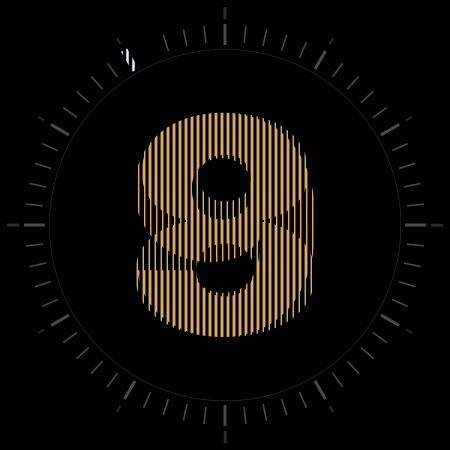
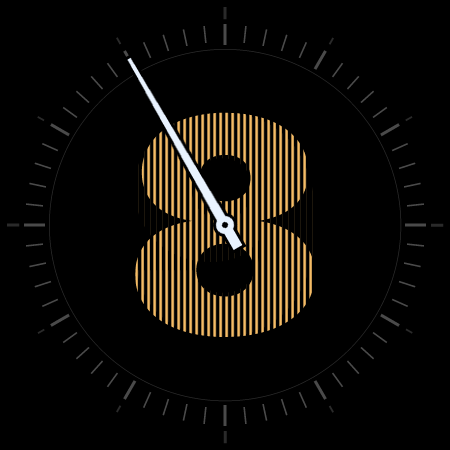
Scanimation: analog minute hand; centre the hour change before the hour
The minute markings give way to a smooth white minute hand with a black
backing. The ten-minute hour change is now half and half at :59:30 (running
:54:30 to :04:30) instead of finishing at :00, so the outgoing numeral is
still visible at :59.

Claude-Session: https://claude.ai/code/session_01U7vwC29cqQDcqoDDqQvHXs

Changed region(s): [[0.28, 0.0933, 0.7156, 0.7467]]

diff --git a/faces/scanimation/generate_xml.py b/faces/scanimation/generate_xml.py
@@ -18,18 +18,17 @@ Hours: two frames per window
     columns in window k-1 and window k.
 
     The hour sheet is vertical rules, 2.5 px wide, every 6 px. It rests over
-    the current numeral's columns for the whole hour. During the hour's last
-    minute it slides 3 px right: the classic Scanimation change, the numeral
-    interleaving into the next. At the top of the hour the face switches to
-    the next window, whose numeral sits in the very columns the sheet now
-    covers, so the switch is invisible. Offset = 3 * (hour + transition) mod 6.
+    the current numeral's columns, then over ten minutes slides 3 px right:
+    the classic Scanimation change, the numeral interleaving into the next.
+    The change is centred half a minute before the hour (half and half at
+    :59:30), so it runs :54:30 to :04:30. When it completes, the face switches
+    to the next window, whose numeral sits in the very columns the sheet now
+    covers, so the switch is invisible. The window clock is therefore the
+    time shifted back 4.5 minutes; offset = 3 * (window + change) mod 6.
 
-Minutes: faked
-    A barrier grid can't resolve single minutes on the ring, so a
-    marking-sized window steps to the current minute, one of sixty printed
-    faintly on the plate. Through it you see the minute ink, fine vertical
-    rules sliding slowly and continuously (144 px per 12 hours), so the lit
-    marking stays striped and drifts.
+Minutes: an analog hand
+    A real minute hand, white with a black backing so it reads over the
+    striped numeral, sweeping smoothly over sixty faint printed markings.
 """
 from pathlib import Path
 import math
@@ -49,17 +48,17 @@ HOUR_PERIOD = 6             # px: two 3 px columns, one per numeral
 HOUR_COLUMN = HOUR_PERIOD / 2
 HOUR_RULE = 2.5             # px: a little narrower than a column, so antialiasing
                             # at the edges doesn't ghost the hidden numeral
-CHANGE_SECONDS = 600        # the hour sheet slides through the hour's last ten minutes
+CHANGE_SECONDS = 600        # the hour change lasts ten minutes...
+HALFWAY_BEFORE_HOUR = 30    # ...and is half done this many seconds before the hour
+WINDOW_LAG = CHANGE_SECONDS // 2 - HALFWAY_BEFORE_HOUR   # 270 s: window k runs to k+1:04:30
 
-MINUTE_PERIOD = 6           # px: same two-column barrier as the hours
-MINUTE_COLUMN = MINUTE_PERIOD / 2
-MINUTE_RULE = 2.5           # px
-MINUTE_CHANGE_SECONDS = 30  # the minute sheet slides through each minute's last 30 s
+HAND = (-26, 192, 10.0, 3.5)   # minute hand: tail r, tip r, base width, tip width
+HAND_BACKING = 3.0             # px of black around the hand
+CAP = (9.0, 3.0)               # centre cap radius, hole radius
 
 RING_IN, RING_OUT = 180, 201                 # minute ring (safe inset 24 -> r <= 201)
 TICK = (RING_IN + 3, RING_OUT - 1, 1.6)      # printed minute marking: r0, r1, width
 TICK_FIVE = (RING_IN, RING_OUT, 3.0)         # printed five-minute marking
-LIT_TICK = (RING_IN - 1, RING_OUT + 1, 7.0)  # lit window, covers either marking
 
 NUMERAL_HEIGHT = 224        # cap height of the hour numerals
 HOUR_LABELS = ["12"] + [str(h) for h in range(1, 12)]
@@ -69,12 +68,13 @@ MINUTE_INK = "#FFE9F3FF"
 PLATE_PRINT = "#FF2A2A2A"
 MINUTE_PRINT = "#FF4A4A4A"
 
-HOUR = "([HOUR_0_23] % 12)"
-CHANGE = (f"clamp(([MINUTE] * 60 + [SECOND] - {3600 - CHANGE_SECONDS}) / {CHANGE_SECONDS}, 0, 1)")
-HOUR_X = f"({-HOUR_PERIOD} + (({HOUR} + {CHANGE}) * {HOUR_COLUMN:g}) % {HOUR_PERIOD})"
-MINUTE_CHANGE = (f"clamp(([SECOND] + [MILLISECOND] / 1000 - {60 - MINUTE_CHANGE_SECONDS}) "
-                 f"/ {MINUTE_CHANGE_SECONDS}, 0, 1)")
-MINUTE_X = f"({-MINUTE_PERIOD} + (([MINUTE] + {MINUTE_CHANGE}) * {MINUTE_COLUMN:g}) % {MINUTE_PERIOD})"
+# Seconds past 12:00, shifted back so each window's change ends WINDOW_LAG after the hour.
+WINDOW_CLOCK = (f"((([HOUR_0_23] % 12) * 3600 + [MINUTE] * 60 + [SECOND] + {43200 - WINDOW_LAG})"
+                f" % 43200)")
+WINDOW = f"floor({WINDOW_CLOCK} / 3600)"
+CHANGE = f"clamp(({WINDOW_CLOCK} % 3600 - {3600 - CHANGE_SECONDS}) / {CHANGE_SECONDS}, 0, 1)"
+HOUR_X = f"({-HOUR_PERIOD} + (({WINDOW} + {CHANGE}) * {HOUR_COLUMN:g}) % {HOUR_PERIOD})"
+MINUTE_ANGLE = "([MINUTE] * 6 + [SECOND] * 0.1)"
 
 
 def grid(width, height, x0=0.0):
@@ -138,29 +138,29 @@ def hour_windows():
     return windows
 
 
-def minute_window(angle=0.0):
+def minute_hand():
+    """White tapered hand over a black backing, pointing at twelve; plus its cap."""
     x, y = grid(SIZE, SIZE)
-    return downsample(radial_bar(x, y, angle, *LIT_TICK))
+    tail, tip, base, end = HAND
+    along = -y
+    t = np.clip((along - 0) / tip, 0, 1)
+    half = np.where(along >= 0, base / 2 + (end - base) / 2 * t, base / 2)
+    r = np.hypot(x, y)
+    cap, hole = CAP
+
+    def shape(grow):
+        bar = (along >= tail - grow) & (along <= tip + grow) & (np.abs(x) <= half + grow)
+        return bar | (r <= cap + grow)
+
+    white = shape(0) & ~(r <= hole)
+    black = shape(HAND_BACKING)
+    return downsample(white), downsample(black)
 
 
 def hour_sheet():
     """Vertical rules over column 0 at offset 0, one period wider than the screen."""
     x, _ = grid(SIZE + HOUR_PERIOD, SIZE, x0=-HOUR_PERIOD)
     return downsample(band(x, HOUR_COLUMN / 2, HOUR_RULE, HOUR_PERIOD))
-
-
-def minute_sheet():
-    x, _ = grid(SIZE + MINUTE_PERIOD, SIZE, x0=-MINUTE_PERIOD)
-    return downsample(band(x, MINUTE_COLUMN / 2, MINUTE_RULE, MINUTE_PERIOD))
-
-
-def minute_columns():
-    """Column-0 cutouts of the minute barrier, one period wider than the screen.
-
-    Shifted by 3 px for odd minutes, so marking m always sits in column m % 2.
-    """
-    x, _ = grid(SIZE + MINUTE_PERIOD, SIZE, x0=-MINUTE_PERIOD)
-    return downsample((x % MINUTE_PERIOD) < MINUTE_COLUMN)
 
 
 def minute_print():
@@ -201,18 +201,18 @@ def save_alpha(alpha, name, color="#FFFFFFFF"):
     Image.fromarray(rgba, "RGBA").save(ASSETS / f"{name}.png", optimize=True)
 
 
-def hour_offset(seconds):
-    """Hour sheet offset in px for a time in seconds past 12:00 (mirrors HOUR_X)."""
-    hour, into = divmod(seconds % 43200, 3600)
+def hour_state(seconds):
+    """Hour sheet offset in px and window index (mirrors HOUR_X and WINDOW)."""
+    clock = (seconds - WINDOW_LAG) % 43200
+    window, into = divmod(clock, 3600)
     change = min(max((into - (3600 - CHANGE_SECONDS)) / CHANGE_SECONDS, 0), 1)
-    return ((hour + change) * HOUR_COLUMN) % HOUR_PERIOD, int(hour)
+    return ((window + change) * HOUR_COLUMN) % HOUR_PERIOD, int(window)
 
 
-def minute_offset(seconds):
-    """Minute sheet offset in px (mirrors MINUTE_X) and the minute it starts from."""
-    minute, into = divmod(seconds % 3600, 60)
-    change = min(max((into - (60 - MINUTE_CHANGE_SECONDS)) / MINUTE_CHANGE_SECONDS, 0), 1)
-    return ((minute + change) * MINUTE_COLUMN) % MINUTE_PERIOD, int(minute)
+def rotate(alpha, angle):
+    """Rotate a centred layer clockwise by `angle` degrees."""
+    img = Image.fromarray((alpha * 255).astype(np.uint8), "L")
+    return np.asarray(img.rotate(-angle, resample=Image.BICUBIC)) / 255.0
 
 
 def slide(sheet, shift, margin):
@@ -227,32 +227,29 @@ def slide(sheet, shift, margin):
 
 def simulate(seconds, layers):
     """Composite the face at a time given as seconds past 12:00."""
-    windows, hsheet, msheet, mcols, plate, mprint = layers
-    offset, hour = hour_offset(seconds)
-    moffset, minute = minute_offset(seconds)
-    now, nxt = minute_window(minute * 6), minute_window((minute + 1) * 6)
-    rules = slide(msheet, moffset, MINUTE_PERIOD)
-    cols = slide(mcols, (minute % 2) * MINUTE_COLUMN, MINUTE_PERIOD)
-    cols_next = slide(mcols, ((minute + 1) % 2) * MINUTE_COLUMN, MINUTE_PERIOD)
-    lit = rules * cols * now + rules * cols_next * nxt
+    windows, hsheet, plate, mprint, (hand_white, hand_black) = layers
+    offset, window = hour_state(seconds)
+    angle = (seconds % 3600) / 10
+    white, black = rotate(hand_white, angle), rotate(hand_black, angle)
     out = np.zeros((SIZE, SIZE, 3))
     out += plate[..., None] * hex_rgb(PLATE_PRINT)
-    out += mprint[..., None] * hex_rgb(MINUTE_PRINT) * (1 - np.clip(now + nxt, 0, 1))[..., None]
-    out += (slide(hsheet, offset, HOUR_PERIOD) * windows[hour])[..., None] * hex_rgb(HOUR_INK)
-    out += lit[..., None] * hex_rgb(MINUTE_INK)
+    out += mprint[..., None] * hex_rgb(MINUTE_PRINT)
+    out += (slide(hsheet, offset, HOUR_PERIOD) * windows[window])[..., None] * hex_rgb(HOUR_INK)
+    out *= (1 - black)[..., None]
+    out += white[..., None] * hex_rgb(MINUTE_INK)
     y, x = np.mgrid[:SIZE, :SIZE]
     out[np.hypot(x + 0.5 - C, y + 0.5 - C) > C] = 0
     return Image.fromarray((np.clip(out, 0, 1) * 255).astype(np.uint8), "RGB")
 
 
 def hour_ink(k):
-    """Hour window k: the hour sheet masked by numerals k and k+1, shown only in hour k.
+    """Hour window k: the hour sheet masked by numerals k and k+1, shown only in window k.
 
     Each window is its own SOURCE/MASK group (switched by group alpha): several
     images inside one MASK group would intersect, not alternate.
     """
     return f"""    <Group x="0" y="0" width="{SIZE}" height="{SIZE}" name="hour_ink_{k}">
-      <Transform target="alpha" value="{HOUR} == {k} ? 255 : 0" />
+      <Transform target="alpha" value="{WINDOW} == {k} ? 255 : 0" />
       <Group x="{-HOUR_PERIOD}" y="0" width="{SIZE + HOUR_PERIOD}" height="{SIZE}" renderMode="SOURCE" name="sheet_hour_rules_{k}">
         <Transform target="x" value="{HOUR_X}" />
         <PartImage x="0" y="0" width="{SIZE + HOUR_PERIOD}" height="{SIZE}">
@@ -263,41 +260,6 @@ def hour_ink(k):
         <PartImage x="0" y="0" width="{SIZE}" height="{SIZE}">
           <Image resource="scan_window_{k}" />
         </PartImage>
-      </Group>
-    </Group>"""
-
-
-def minute_ink(n, minute):
-    """Marking `minute` seen through the minute barrier.
-
-    SOURCE is the sliding minute rules cut down to that marking's column
-    parity; MASK is the marking-sized window rotated onto it. Two of these,
-    for this minute and the next, interleave like the hour windows.
-    """
-    parity_x = f"({-MINUTE_PERIOD} + ({minute} % 2) * {MINUTE_COLUMN:g})"
-    return f"""    <Group x="0" y="0" width="{SIZE}" height="{SIZE}" name="minute_ink_{n}">
-      <Variant mode="AMBIENT" target="alpha" value="170" />
-      <Group x="0" y="0" width="{SIZE}" height="{SIZE}" renderMode="SOURCE" name="minute_rules_{n}">
-        <Group x="{-MINUTE_PERIOD}" y="0" width="{SIZE + MINUTE_PERIOD}" height="{SIZE}" renderMode="SOURCE" name="sheet_minute_rules_{n}">
-          <Transform target="x" value="{MINUTE_X}" />
-          <PartImage x="0" y="0" width="{SIZE + MINUTE_PERIOD}" height="{SIZE}">
-            <Image resource="scan_sheet_minute" />
-          </PartImage>
-        </Group>
-        <Group x="{-MINUTE_PERIOD}" y="0" width="{SIZE + MINUTE_PERIOD}" height="{SIZE}" renderMode="MASK" name="minute_columns_{n}">
-          <Transform target="x" value="{parity_x}" />
-          <PartImage x="0" y="0" width="{SIZE + MINUTE_PERIOD}" height="{SIZE}">
-            <Image resource="scan_minute_columns" />
-          </PartImage>
-        </Group>
-      </Group>
-      <Group x="0" y="0" width="{SIZE}" height="{SIZE}" renderMode="MASK" name="minute_window_{n}">
-        <Group x="0" y="0" width="{SIZE}" height="{SIZE}" pivotX="0.5" pivotY="0.5" name="minute_window_step_{n}">
-          <Transform target="angle" value="{minute} * 6" />
-          <PartImage x="0" y="0" width="{SIZE}" height="{SIZE}">
-            <Image resource="scan_mask_minute" />
-          </PartImage>
-        </Group>
       </Group>
     </Group>"""
 
@@ -315,8 +277,12 @@ XML = f"""<?xml version="1.0" encoding="utf-8"?>
       <Image resource="scan_minute_print" />
     </PartImage>
 {chr(10).join(hour_ink(k) for k in range(12))}
-{minute_ink(0, "[MINUTE]")}
-{minute_ink(1, "([MINUTE] + 1)")}
+    <Group x="0" y="0" width="{SIZE}" height="{SIZE}" pivotX="0.5" pivotY="0.5" name="minute_hand">
+      <Transform target="angle" value="{MINUTE_ANGLE}" />
+      <PartImage x="0" y="0" width="{SIZE}" height="{SIZE}">
+        <Image resource="scan_minute_hand" />
+      </PartImage>
+    </Group>
   </Scene>
 </WatchFace>
 """
@@ -326,10 +292,10 @@ PREVIEW_TIMES = {
     "03-30": 3 * 3600 + 30 * 60,
     "07-45": 7 * 3600 + 45 * 60,
     "12-05": 5 * 60,
-    "08-50": 8 * 3600 + 50 * 60,
     "08-55": 8 * 3600 + 55 * 60,
-    "09-00": 9 * 3600,
-    "09-04-45": 9 * 3600 + 4 * 60 + 45,
+    "08-59-30": 8 * 3600 + 59 * 60 + 30,
+    "09-02": 9 * 3600 + 2 * 60,
+    "09-05": 9 * 3600 + 5 * 60,
 }
 
 
@@ -338,19 +304,22 @@ def main():
     for old in ASSETS.glob("*.png"):
         old.unlink()
     windows = hour_windows()
-    hsheet, msheet, mcols = hour_sheet(), minute_sheet(), minute_columns()
+    hsheet = hour_sheet()
     plate, mprint = plate_print(), minute_print()
+    hand_white, hand_black = minute_hand()
     for k, window in enumerate(windows):
         save_alpha(window, f"scan_window_{k}")
-    save_alpha(minute_window(0.0), "scan_mask_minute")
+    hand = np.zeros((SIZE, SIZE, 4))
+    hand[..., :3] = (hand_white / np.maximum(hand_black, 1e-6))[..., None] * hex_rgb(MINUTE_INK)
+    hand[..., 3] = hand_black
+    Image.fromarray((np.clip(hand, 0, 1) * 255).round().astype(np.uint8), "RGBA").save(
+        ASSETS / "scan_minute_hand.png", optimize=True)
     save_alpha(hsheet, "scan_sheet_hour", HOUR_INK)
-    save_alpha(msheet, "scan_sheet_minute", MINUTE_INK)
-    save_alpha(mcols, "scan_minute_columns")
     save_alpha(plate, "scan_plate", PLATE_PRINT)
     save_alpha(mprint, "scan_minute_print", MINUTE_PRINT)
     (HERE / "watchface.xml").write_text(XML)
 
-    layers = (windows, hsheet, msheet, mcols, plate, mprint)
+    layers = (windows, hsheet, plate, mprint, (hand_white, hand_black))
     previews = HERE / "previews"
     previews.mkdir(exist_ok=True)
     for old in previews.glob("*.png"):

diff --git a/faces/scanimation/notes.md b/faces/scanimation/notes.md
@@ -6,35 +6,33 @@ sideways under the mask to show the time.
 
 ## Reading it
 
-- **Hour**: the big amber numeral in the centre, striped by the barrier. During
-  the hour's last ten minutes the stripes slide and the numeral changes into
-  the next one, interleaved. At :55 the two are half and half.
-- **Minute**: sixty faint markings are printed around the ring, and the current
-  one is lit in striped white. Over each minute's last 30 seconds the lit
-  marking changes into the next marking the same way.
+- **Hour**: the big amber numeral in the centre, striped by the barrier. The
+  change into the next numeral takes ten minutes and is half and half at
+  **:59:30**, so it runs from :54:30 to :04:30. At :59 the outgoing numeral
+  is still slightly ahead.
+- **Minute**: a white analog hand with a black backing, sweeping smoothly over
+  sixty faint printed markings.
 
 ## Mechanism
 
-Every window holds **two frames**, the current value and the next one, cut as
+Every hour window holds **two frames**, numerals k and k+1, cut as
 alternating 3 px columns (period 6 px). A sheet of 2.5 px vertical rules covers
-one column parity. It rests for most of the period, then slides 3 px across
-the other column parity, so the frame visibly changes into the next.
+one column parity. It rests, then slides 3 px across the other column parity
+over ten minutes, so the numeral visibly changes into the next.
 
-- Value k always sits in column parity k % 2, so it occupies the same columns
-  in the window before and after. The sheet offset is
-  `3 * (value + change) mod 6`, and the switch to the next window at the top
-  of the hour is invisible.
-- **Hours**: twelve window images, `scan_window_k` = numerals k and k+1. Each
-  is its own SOURCE/MASK group, switched on by group alpha
-  (`[HOUR_0_23] % 12 == k`). Twelve images inside one MASK group would
-  intersect (destination-in) rather than alternate. This is what wff-web
-  does, and WFF masking composes the same way.
-- **Minutes**: one marking-sized window image, rotated to `[MINUTE] * 6` and
-  `([MINUTE] + 1) * 6`. Its SOURCE is the minute rules cut to that marking's
-  column parity by `scan_minute_columns`, shifted 3 px for odd minutes.
-- Change windows: hours slide through :50:00–:00:00 (`CHANGE_SECONDS = 600`).
-  Minutes slide through :30–:60 (`MINUTE_CHANGE_SECONDS = 30`, smooth using
-  milliseconds).
+- Numeral k always sits in column parity k % 2, so it occupies the same columns
+  in the windows before and after. The sheet offset is
+  `3 * (window + change) mod 6`, and the window switch, made after the change
+  completes, is invisible.
+- The window clock is the time shifted back by `WINDOW_LAG` (270 s):
+  `CHANGE_SECONDS / 2 - HALFWAY_BEFORE_HOUR`. Window k therefore runs from
+  k:04:30 to k+1:04:30, and its last ten minutes are the change.
+- Twelve window images (`scan_window_k`), each its own SOURCE/MASK group,
+  switched on by group alpha. Twelve images inside one MASK group would
+  intersect (destination-in) rather than alternate.
+- The minute hand is one RGBA image (white hand, black backing and cap)
+  rotated by `[MINUTE] * 6 + [SECOND] * 0.1`. The backing cuts the numeral's
+  stripes so the hand reads cleanly over them.
 
 ## History
 
@@ -53,9 +51,14 @@ the other column parity, so the frame visibly changes into the next.
 4. **Slower changes** (Patrick: "I want to see more of the animation. Don't
    make it so fast"). The hour change now takes ten minutes and the minute
    change 30 seconds.
+5. **Analog minute hand, re-timed hour change** (Patrick: "Make the minutes
+   into a real analog hand. I couldn't see the 9 at all at 9:59. Have the
+   halfway point be just before the hour change"). The ten-minute change had
+   finished by the hour, so at 9:59 it was mostly 10. It is now centred at
+   :59:30. The striped minute markings were replaced by a smooth hand.
 
-Ambient: the hour windows have no ambient Variant, because a Variant alpha
-would override the per-window switch. The minute ink dims to alpha 170.
+Ambient: no Variants. A Variant alpha on the hour windows would override the
+per-window switch, so the face is the same in ambient.
 
 Regenerate with `python3 faces/scanimation/generate_xml.py`. `previews/` and
 `preview.png` are composited by the generator's simulator. The wff-web
